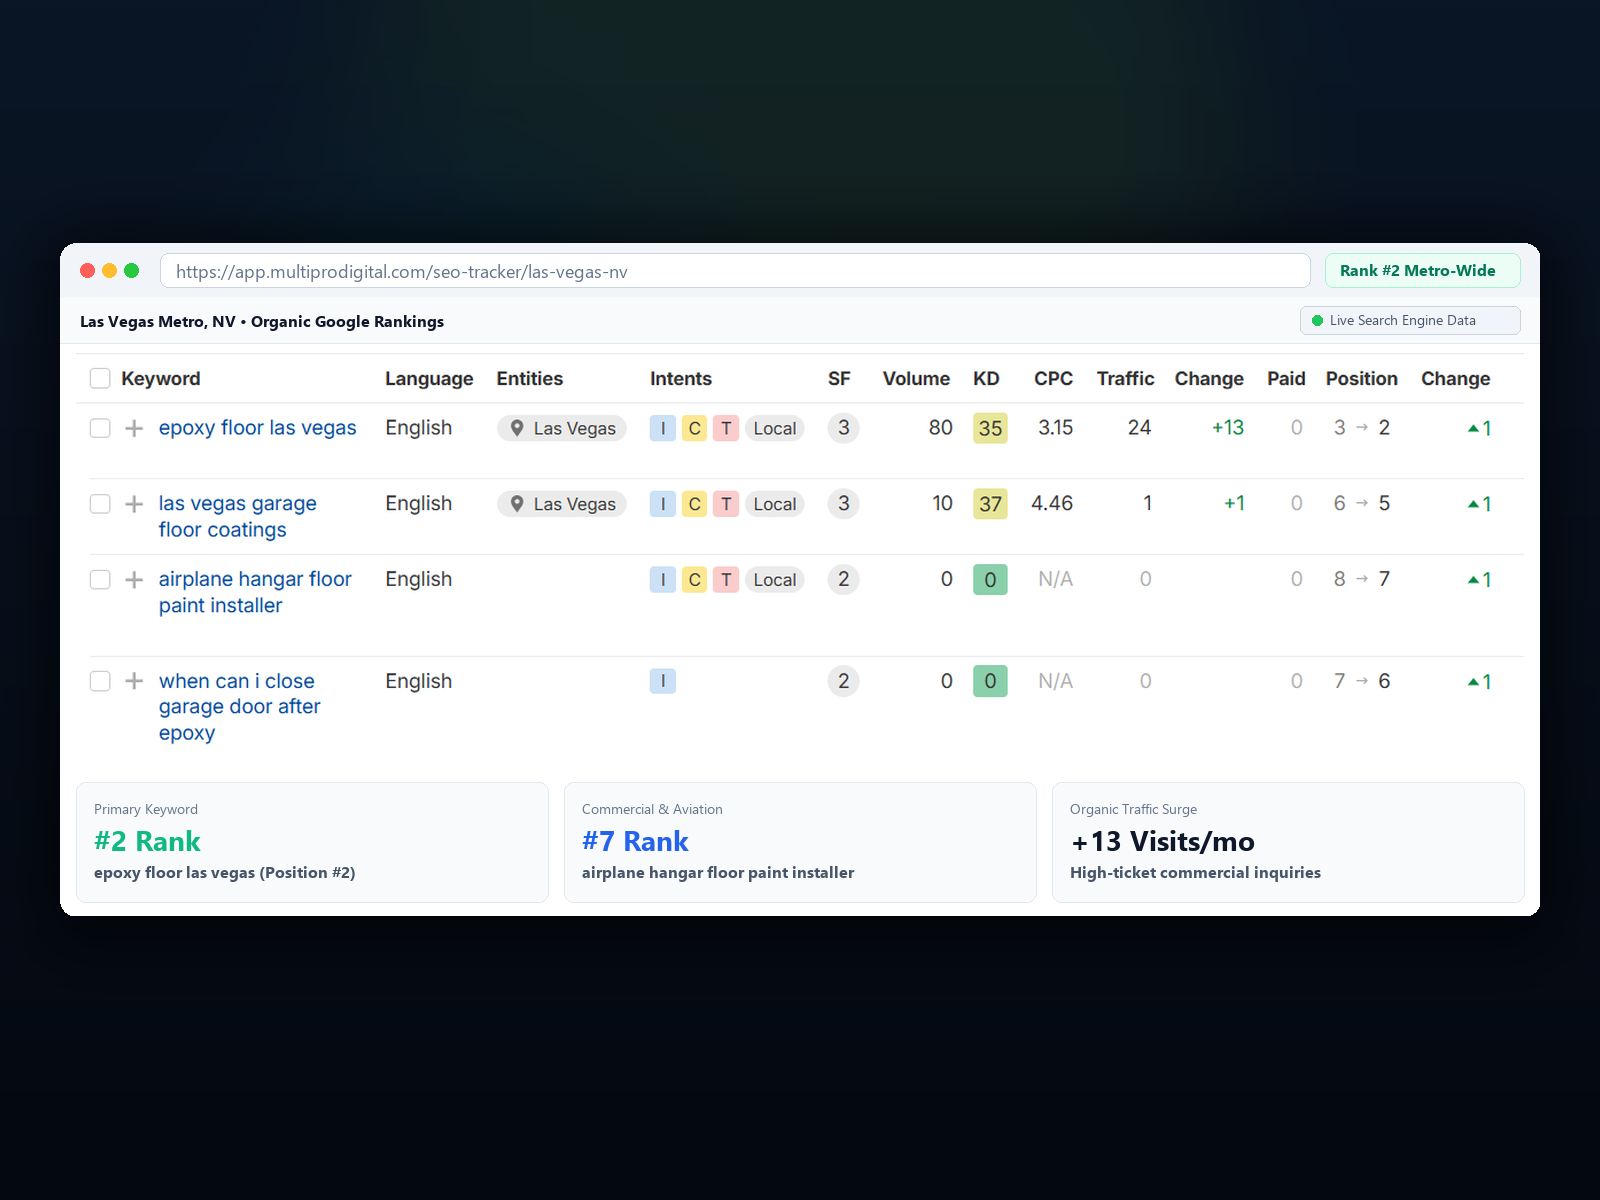
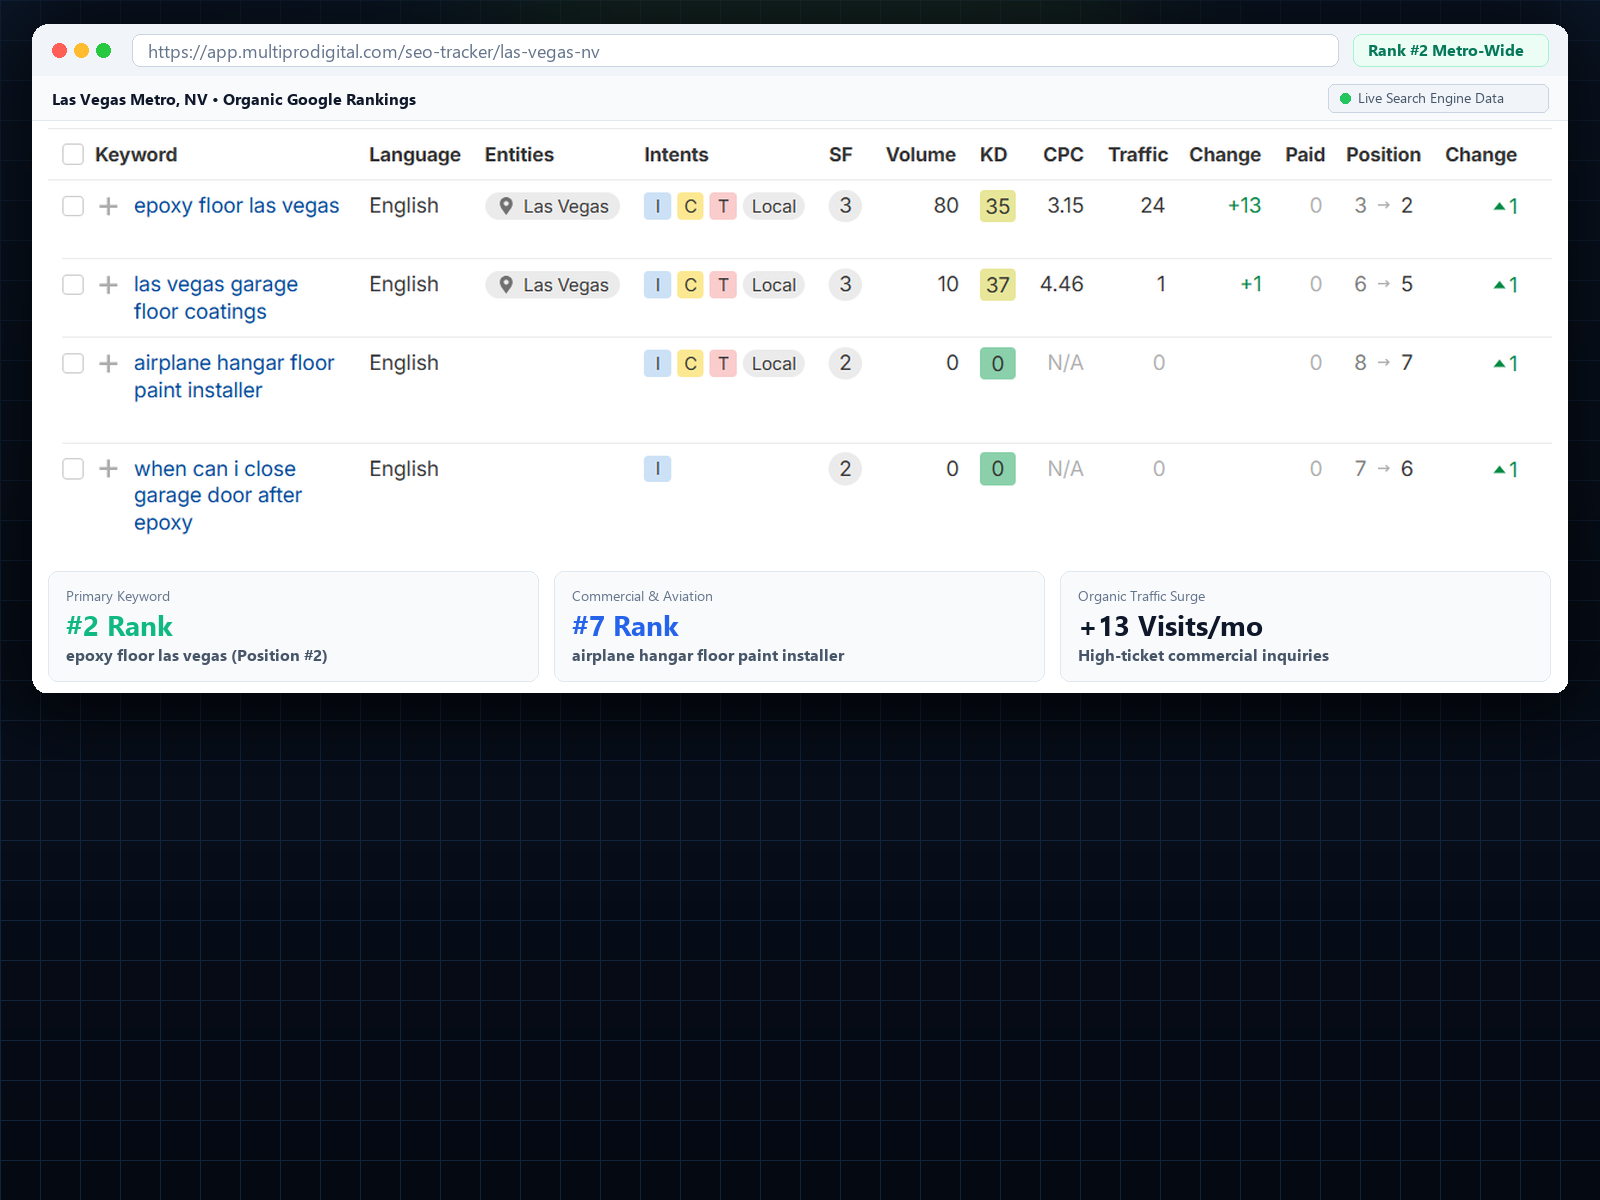
style: remove top empty space, align rank tracker window flush to top, and refine card gradient

diff --git a/src/components/Portfolio.tsx b/src/components/Portfolio.tsx
@@ -145,11 +145,11 @@ export default function Portfolio() {
                   alt={`Local SEO Map Pack case study: ${result.name} — prior win, same system for epoxy/coatings`} 
                   fill
                   sizes="(max-width: 768px) 100vw, (max-width: 1200px) 50vw, 33vw"
-                  className={`object-cover transform transition-transform duration-700 ease-out ${isActive ? 'scale-105' : 'scale-100'}`}
+                  className={`object-cover object-top transform transition-transform duration-700 ease-out ${isActive ? 'scale-105' : 'scale-100'}`}
                 />
 
                 {/* Hover Reveal Overlays */}
-                <div className={`absolute inset-x-0 bottom-0 h-2/3 bg-gradient-to-t from-slate-950 via-slate-950/80 to-transparent z-10 transition-opacity duration-500 ${isActive ? 'opacity-0' : 'opacity-100'}`} />
+                <div className={`absolute inset-x-0 bottom-0 h-1/2 bg-gradient-to-t from-slate-950 via-slate-950/80 to-transparent z-10 transition-opacity duration-500 ${isActive ? 'opacity-0' : 'opacity-100'}`} />
                 <div className={`absolute inset-0 bg-slate-950/90 transition-opacity duration-500 z-20 backdrop-blur-[2px] ${isActive ? 'opacity-100' : 'opacity-0 pointer-events-none'}`} />
 
                 {/* Info Hierarchy */}
